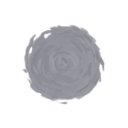
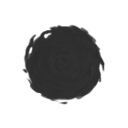
added more changes
- changed big energy orb and created custom energy orb class
- made lumo smaller, fixed position, healthbar
- added payment keyword
- added new card border for attacks (will add skills and powers later)
- made manual labour "work"
(need to inherit from abstractlumo for extensibility)
(need to summon another one if still have room)

Changed region(s): [[0.1562, 0.1875, 0.8438, 0.8125]]

diff --git a/src/main/java/TestMod/characters/Lumo.java b/src/main/java/TestMod/characters/Lumo.java
@@ -55,7 +55,7 @@ public class Lumo extends AbstractMonster {
     private static final String NAME;
     private static final String[] MOVES;
     private static final String[] DIALOG;
-    private static final int MAX_HP = 40;
+    private static final int MAX_HP = 20;
     private static final float HB_X = 0.0F;
     private static final float HB_Y = 0.0F;
     private static final float HB_W = 200.0F;
@@ -73,7 +73,7 @@ public class Lumo extends AbstractMonster {
     protected AnimationInfo currentAnim;
 
     public Lumo() {
-        super(NAME, ID, 40, 0.0F, 0.0F, 200.0F, 250.0F, (String)null, 0.0F, 0.0F);
+        super(NAME, ID, 20, 0.0F, 0.0F, 80.0F, 250.0F, (String)null, 0.0F, 0.0F);
         this.isPlayer = true;
         this.damage.add(new DamageInfo(this, 3));
 //        SkinSelectScreen.Skin skin = SkinSelectScreen.getSkin();
@@ -97,7 +97,7 @@ public class Lumo extends AbstractMonster {
         this.init();
         this.showHealthBar();
         this.createIntent();
-        GenericHelper.MoveMonster(this, AbstractDungeon.player.drawX + 200.0F * Settings.scale, AbstractDungeon.player.drawY + 100.0F * Settings.scale);
+        GenericHelper.MoveMonster(this, AbstractDungeon.player.drawX + 300.0F * Settings.scale, AbstractDungeon.player.drawY + 0.0F * Settings.scale);
     }
 
     public void addTip() {
@@ -115,13 +115,13 @@ public class Lumo extends AbstractMonster {
             case "Skill":
             case "Skill_2":
                 if (this.meltdownNextTurn) {
-                    this.addAnimation("Skill_2");
+                    //this.addAnimation("Skill_2");
                 } else {
-                    this.addAnimation(stateName);
+                    //this.addAnimation(stateName);
                 }
                 break;
             case "Die":
-                this.state.setAnimation(0, stateName, false);
+                //this.state.setAnimation(0, stateName, false);
         }
 
     }
@@ -444,23 +444,23 @@ public class Lumo extends AbstractMonster {
             this.flipHorizontal = AbstractDungeon.player.flipHorizontal;
         }
 
-        if (this.animationList.size() > 0 || this.currentAnim != null) {
-            this.animationTimer -= Gdx.graphics.getDeltaTime();
-            if (this.animationTimer <= 0.0F) {
-                if (this.currentAnim != null) {
-                    this.animationList.remove(0);
-                }
-
-                if (this.animationList.size() == 0) {
-                    this.state.addAnimation(0, "Idle", true, 0.0F);
-                    this.currentAnim = null;
-                } else {
-                    this.currentAnim = (AnimationInfo)this.animationList.get(0);
-                    this.animationTimer = this.currentAnim.time;
-                    this.state.setAnimation(0, this.currentAnim.anim, false);
-                }
-            }
-        }
+//        if (this.animationList.size() > 0 || this.currentAnim != null) {
+//            this.animationTimer -= Gdx.graphics.getDeltaTime();
+//            if (this.animationTimer <= 0.0F) {
+//                if (this.currentAnim != null) {
+//                    this.animationList.remove(0);
+//                }
+//
+//                if (this.animationList.size() == 0) {
+//                    this.state.addAnimation(0, "Idle", true, 0.0F);
+//                    this.currentAnim = null;
+//                } else {
+//                    this.currentAnim = (AnimationInfo)this.animationList.get(0);
+//                    this.animationTimer = this.currentAnim.time;
+//                    this.state.setAnimation(0, this.currentAnim.anim, false);
+//                }
+//            }
+//        }
 
     }
 

diff --git a/src/main/java/TestMod/cards/ManualLabour.java b/src/main/java/TestMod/cards/ManualLabour.java
@@ -9,12 +9,14 @@ import com.megacrit.cardcrawl.actions.AbstractGameAction;
 import com.megacrit.cardcrawl.actions.common.ApplyPowerAction;
 import com.megacrit.cardcrawl.actions.common.DamageAction;
 import com.megacrit.cardcrawl.actions.common.GainBlockAction;
+import com.megacrit.cardcrawl.actions.common.ReducePowerAction;
 import com.megacrit.cardcrawl.cards.DamageInfo;
 import com.megacrit.cardcrawl.characters.AbstractPlayer;
 import com.megacrit.cardcrawl.core.CardCrawlGame;
 import com.megacrit.cardcrawl.dungeons.AbstractDungeon;
 import com.megacrit.cardcrawl.localization.CardStrings;
 import com.megacrit.cardcrawl.monsters.AbstractMonster;
+import com.megacrit.cardcrawl.cards.AbstractCard;
 
 import static TestMod.TestMod.makeCardPath;
 // "How come this card extends CustomCard and not DynamicCard like all the rest?"
@@ -103,7 +105,10 @@ public class ManualLabour extends AbstractDynamicCard {
     public void use(AbstractPlayer p, AbstractMonster m) {
         AbstractDungeon.actionManager.addToBottom(new GainBlockAction(p, p, block));
 
-        LumoPatch.ReduceReviveTime(5);
+        if (canPayment()) {
+            LumoPatch.ReduceReviveTime(5);
+            this.addToBot(new ReducePowerAction(p, p, "TestMod:MembershipPower", MEMBERSHIP_REQUIRED));
+        }
     }
 
     // Upgraded stats.
@@ -115,4 +120,60 @@ public class ManualLabour extends AbstractDynamicCard {
             initializeDescription();
         }
     }
+
+    public void triggerOnGlowCheck() {
+        this.glowColor = AbstractCard.BLUE_BORDER_GLOW_COLOR.cpy();
+        if (canPayment()) {
+            this.glowColor = AbstractCard.GOLD_BORDER_GLOW_COLOR.cpy();
+        }
+
+    }
+
+    public void superUse(AbstractPlayer p, AbstractMonster m) {
+        if (this.canPayment()) {
+            //this.bloodUse(p, m);
+        }
+    }
+
+    public void applyPowers() {
+        super.applyPowers();
+//        AbstractPlayer p = AbstractDungeon.player;
+//        if (this.baseAttackTime > 0) {
+//            this.attackTime = this.baseAttackTime;
+//            if (p.hasRelic("SpecialGloves_Elena")) {
+//                ++this.attackTime;
+//            }
+//        }
+
+//        this.bloodMagic = this.canBloodMagic();
+        this.triggerOnGlowCheck();
+
+    }
+
+//    public void calculateCardDamage(AbstractMonster mo) {
+//        super.calculateCardDamage(mo);
+//        AbstractPlayer p = AbstractDungeon.player;
+//        if (this.baseAttackTime > 0) {
+//            this.attackTime = this.baseAttackTime;
+//            if (p.hasRelic("SpecialGloves_Elena")) {
+//                ++this.attackTime;
+//            }
+//        }
+//    }
+
+    public boolean canPayment() {
+        AbstractPlayer p = AbstractDungeon.player;
+        if (MEMBERSHIP_REQUIRED <= 0) {
+            return false;
+        } else {
+            return p.hasPower("TestMod:MembershipPower") && p.getPower("TestMod:MembershipPower").amount >= MEMBERSHIP_REQUIRED;
+        }
+    }
+
+//    public void bloodUse(AbstractPlayer p, AbstractMonster m) {
+//        if (!p.hasPower("BloodfiendFormPower_Elena")) {
+//            this.addToBot(new ReducePowerAction(p, p, "BloodPower_Elena", this.bloodCost));
+//        }
+//    }
+
 }

diff --git a/src/main/java/TestMod/ui/LumaEnergyOrb.java b/src/main/java/TestMod/ui/LumaEnergyOrb.java
@@ -1,0 +1,68 @@
+package TestMod.ui;
+
+import basemod.abstracts.CustomEnergyOrb;
+import com.badlogic.gdx.Gdx;
+import com.badlogic.gdx.graphics.Color;
+import com.badlogic.gdx.graphics.Texture;
+import com.badlogic.gdx.graphics.g2d.SpriteBatch;
+import com.megacrit.cardcrawl.core.Settings;
+import com.megacrit.cardcrawl.helpers.ImageMaster;
+
+public class LumaEnergyOrb extends CustomEnergyOrb {
+    private static final float ORB_IMG_SCALE = 1.15F * Settings.scale;
+    protected Texture bowLayer;
+
+    public LumaEnergyOrb(String[] orbTexturePaths, String orbVfxPath, float[] layerSpeeds) {
+        super(orbTexturePaths, orbVfxPath, layerSpeeds);
+        this.bowLayer = ImageMaster.loadImage("TestModResources/images/char/defaultCharacter/orb/layer0.png");
+    }
+
+
+    @Override
+    public void updateOrb(int energyCount) {
+        float[] var10000;
+        if (energyCount == 0) {
+            var10000 = this.angles;
+            var10000[4] += Gdx.graphics.getDeltaTime() * this.layerSpeeds[0] / 4.0F;
+            var10000 = this.angles;
+            var10000[3] += Gdx.graphics.getDeltaTime() * this.layerSpeeds[1] / 4.0F;
+            var10000 = this.angles;
+            var10000[2] += Gdx.graphics.getDeltaTime() * this.layerSpeeds[2] / 4.0F;
+            var10000 = this.angles;
+            var10000[1] += Gdx.graphics.getDeltaTime() * this.layerSpeeds[3] / 4.0F;
+            var10000 = this.angles;
+            var10000[0] += Gdx.graphics.getDeltaTime() * this.layerSpeeds[4] / 4.0F;
+        } else {
+            var10000 = this.angles;
+            var10000[4] += Gdx.graphics.getDeltaTime() * this.layerSpeeds[0];
+            var10000 = this.angles;
+            var10000[3] += Gdx.graphics.getDeltaTime() * this.layerSpeeds[1];
+            var10000 = this.angles;
+            var10000[2] += Gdx.graphics.getDeltaTime() * this.layerSpeeds[2];
+            var10000 = this.angles;
+            var10000[1] += Gdx.graphics.getDeltaTime() * this.layerSpeeds[3];
+            var10000 = this.angles;
+            var10000[0] += Gdx.graphics.getDeltaTime() * this.layerSpeeds[4];
+        }
+
+    }
+
+    @Override
+    public void renderOrb(SpriteBatch sb, boolean enabled, float current_x, float current_y) {
+        sb.setColor(Color.WHITE);
+        sb.draw(this.bowLayer, current_x - 64.0F, current_y - 64.0F, 64.0F, 64.0F, 128.0F, 128.0F, ORB_IMG_SCALE, ORB_IMG_SCALE, 0.0F, 0, 0, 128, 128, false, false);
+
+        int i;
+        if (enabled) {
+            for(i = 0; i < this.energyLayers.length; ++i) {
+                sb.draw(this.energyLayers[i], current_x - 64.0F, current_y - 64.0F, 64.0F, 64.0F, 128.0F, 128.0F, ORB_IMG_SCALE, ORB_IMG_SCALE, this.angles[i], 0, 0, 128, 128, false, false);
+            }
+        } else {
+            for(i = 0; i < this.noEnergyLayers.length; ++i) {
+                sb.draw(this.noEnergyLayers[i], current_x - 64.0F, current_y - 64.0F, 64.0F, 64.0F, 128.0F, 128.0F, ORB_IMG_SCALE, ORB_IMG_SCALE, this.angles[i], 0, 0, 128, 128, false, false);
+            }
+        }
+
+        sb.draw(this.baseLayer, current_x - 64.0F, current_y - 64.0F, 64.0F, 64.0F, 128.0F, 128.0F, ORB_IMG_SCALE, ORB_IMG_SCALE, 0.0F, 0, 0, 128, 128, false, false);
+    }
+}

diff --git a/src/main/java/TestMod/cards/AbstractLumoCard.java b/src/main/java/TestMod/cards/AbstractLumoCard.java
@@ -17,65 +17,18 @@ import com.megacrit.cardcrawl.powers.AbstractPower;
 import java.util.function.Function;
 
 public abstract class AbstractLumoCard extends CustomCard { // implements EventHelper.CustomSubscriber {
+    public int membershipCost = -1;
+    public boolean paymentBool;
+
     public int baseSecondaryMagicNum;
     public int SecondaryMagicNum;
     public boolean upgradedSecondaryMagicNum;
     public boolean isSecondaryMagicNumModified;
     public CardStrings strings;
 
-    public AbstractLumoCard(String ID, CardStrings strings, int COST, AbstractCard.CardType TYPE, AbstractCard.CardRarity RARITY, AbstractCard.CardTarget TARGET) {
-        this(ID, false, strings, COST, TYPE, RARITY, TARGET);
-    }
-
-    public AbstractLumoCard(String ID, boolean useTmpArt, CardStrings strings, int COST, AbstractCard.CardType TYPE, AbstractCard.CardRarity RARITY, AbstractCard.CardTarget TARGET) {
-        super(ID, strings.NAME, useTmpArt ? GetTmpImgPath(TYPE) : GetImgPath(TYPE, ID), COST, strings.DESCRIPTION, TYPE, Enums.COLOR_GRAY, RARITY, TARGET);
+    public AbstractLumoCard(String ID, String IMG, CardStrings strings, int COST, AbstractCard.CardType TYPE, AbstractCard.CardRarity RARITY, AbstractCard.CardTarget TARGET) {
+        super(ID, strings.NAME, IMG, COST, strings.DESCRIPTION, TYPE, Enums.COLOR_GRAY, RARITY, TARGET);
         this.strings = strings;
-    }
-
-    private static String GetTmpImgPath(AbstractCard.CardType t) {
-        String type;
-        switch (t) {
-            case ATTACK:
-                type = "attack";
-                break;
-            case POWER:
-                type = "power";
-                break;
-            case STATUS:
-            case CURSE:
-            case SKILL:
-                type = "skill";
-                break;
-            default:
-                throw new IllegalStateException("Unexpected value: " + t);
-        }
-
-        return String.format("KaltsitResources/img/card/test_%s.png", type);
-    }
-
-    private static String GetImgPath(AbstractCard.CardType t, String name) {
-        String type;
-        switch (t) {
-            case ATTACK:
-                type = "attack";
-                break;
-            case POWER:
-                type = "power";
-                break;
-            case STATUS:
-                type = "status";
-                break;
-            case CURSE:
-                type = "curse";
-                break;
-            case SKILL:
-                type = "skill";
-                break;
-            default:
-                throw new IllegalStateException("Unexpected value: " + t);
-        }
-
-        return String.format("KaltsitResources/img/card/%s/%s.png", type, name.replace("Kaltsit_", ""));
     }
 
     protected void setupDamage(int amt) {
@@ -191,7 +144,6 @@ public abstract class AbstractLumoCard extends CustomCard { // implements EventH
             this.limitedUpgrade();
             this.initializeDescription();
         }
-
     }
 }
 

diff --git a/src/main/java/TestMod/characters/TheLuma.java b/src/main/java/TestMod/characters/TheLuma.java
@@ -3,6 +3,7 @@ package TestMod.characters;
 import TestMod.cards.*;
 import TestMod.relics.LumaRelic;
 import TestMod.relics.TestRelic;
+import TestMod.ui.LumaEnergyOrb;
 import basemod.abstracts.CustomPlayer;
 import basemod.animations.AbstractAnimation;
 import basemod.animations.SpriterAnimation;
@@ -106,8 +107,9 @@ public class TheLuma extends CustomPlayer {
     // =============== CHARACTER CLASS START =================
 
     public TheLuma(String name, PlayerClass setClass) {
-        super(name, setClass, orbTextures,
-                "TestModResources/images/char/defaultCharacter/orb/vfx.png", null, (String) null);
+        super(name, setClass, new LumaEnergyOrb(orbTextures, "TestModResources/images/char/defaultCharacter/orb/vfx.png", null), null, null);
+        //super(name, setClass, orbTextures,
+        //        "TestModResources/images/char/defaultCharacter/orb/vfx.png", null, (String) null);
                 //new SpriterAnimation(
                 //        "TestModResources/images/char/defaultCharacter/Spriter/theDefaultAnimation.scml"));
 
